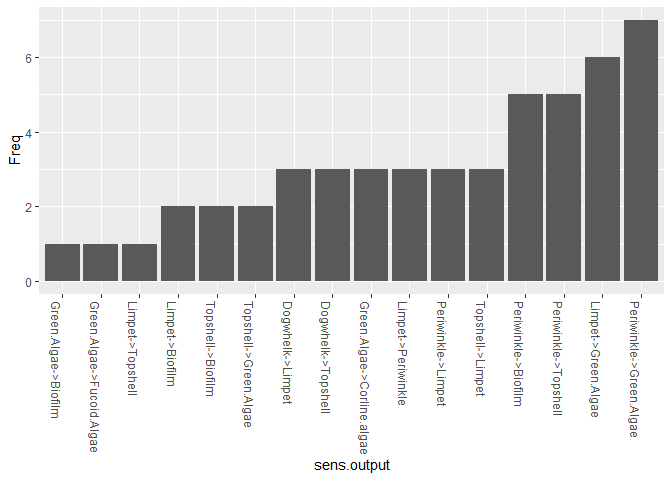
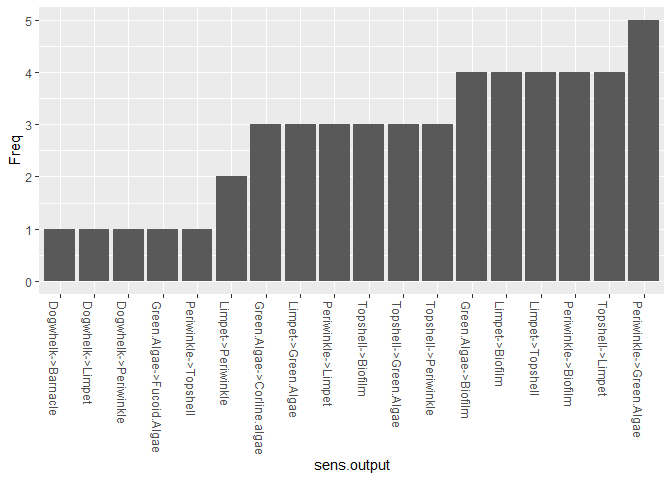
May 2024

diff --git a/README.md b/README.md
@@ -520,22 +520,24 @@ bbn.sensitivity(bbn.model = my_BBN, boot_max = 100, 'Limpet', 'Green Algae')
 <img src="man/figures/README-unnamed-chunk-8-1.png" width="100%" />
 
     #>                   sens.output Freq
-    #> 1        Green.Algae->Biofilm    1
-    #> 2   Green.Algae->Fucoid.Algae    1
-    #> 3            Limpet->Topshell    1
-    #> 4             Limpet->Biofilm    2
-    #> 5           Topshell->Biofilm    2
-    #> 6       Topshell->Green.Algae    2
-    #> 7            Dogwhelk->Limpet    3
-    #> 8          Dogwhelk->Topshell    3
-    #> 9  Green.Algae->Corline.algae    3
-    #> 10         Limpet->Periwinkle    3
-    #> 11         Periwinkle->Limpet    3
-    #> 12           Topshell->Limpet    3
-    #> 13        Periwinkle->Biofilm    5
-    #> 14       Periwinkle->Topshell    5
-    #> 15        Limpet->Green.Algae    6
-    #> 16    Periwinkle->Green.Algae    7
+    #> 1          Dogwhelk->Barnacle    1
+    #> 2            Dogwhelk->Limpet    1
+    #> 3        Dogwhelk->Periwinkle    1
+    #> 4   Green.Algae->Fucoid.Algae    1
+    #> 5        Periwinkle->Topshell    1
+    #> 6          Limpet->Periwinkle    2
+    #> 7  Green.Algae->Corline.algae    3
+    #> 8         Limpet->Green.Algae    3
+    #> 9          Periwinkle->Limpet    3
+    #> 10          Topshell->Biofilm    3
+    #> 11      Topshell->Green.Algae    3
+    #> 12       Topshell->Periwinkle    3
+    #> 13       Green.Algae->Biofilm    4
+    #> 14            Limpet->Biofilm    4
+    #> 15           Limpet->Topshell    4
+    #> 16        Periwinkle->Biofilm    4
+    #> 17           Topshell->Limpet    4
+    #> 18    Periwinkle->Green.Algae    5
 
 The function works by bootstrapping with multiple changes to prior
 values and interaction strengths in the network. The frequency shows the
